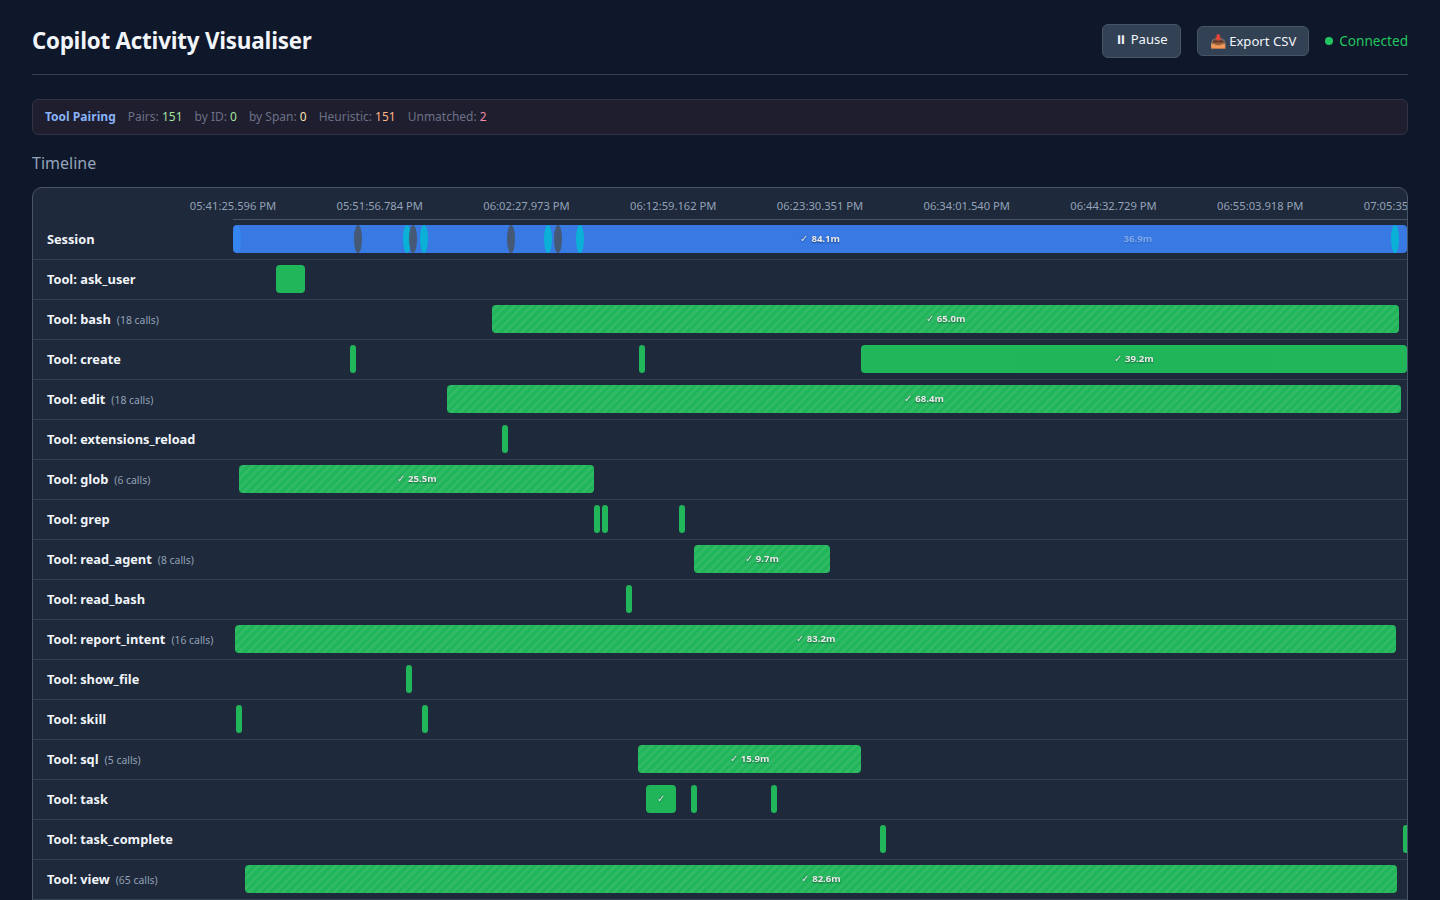
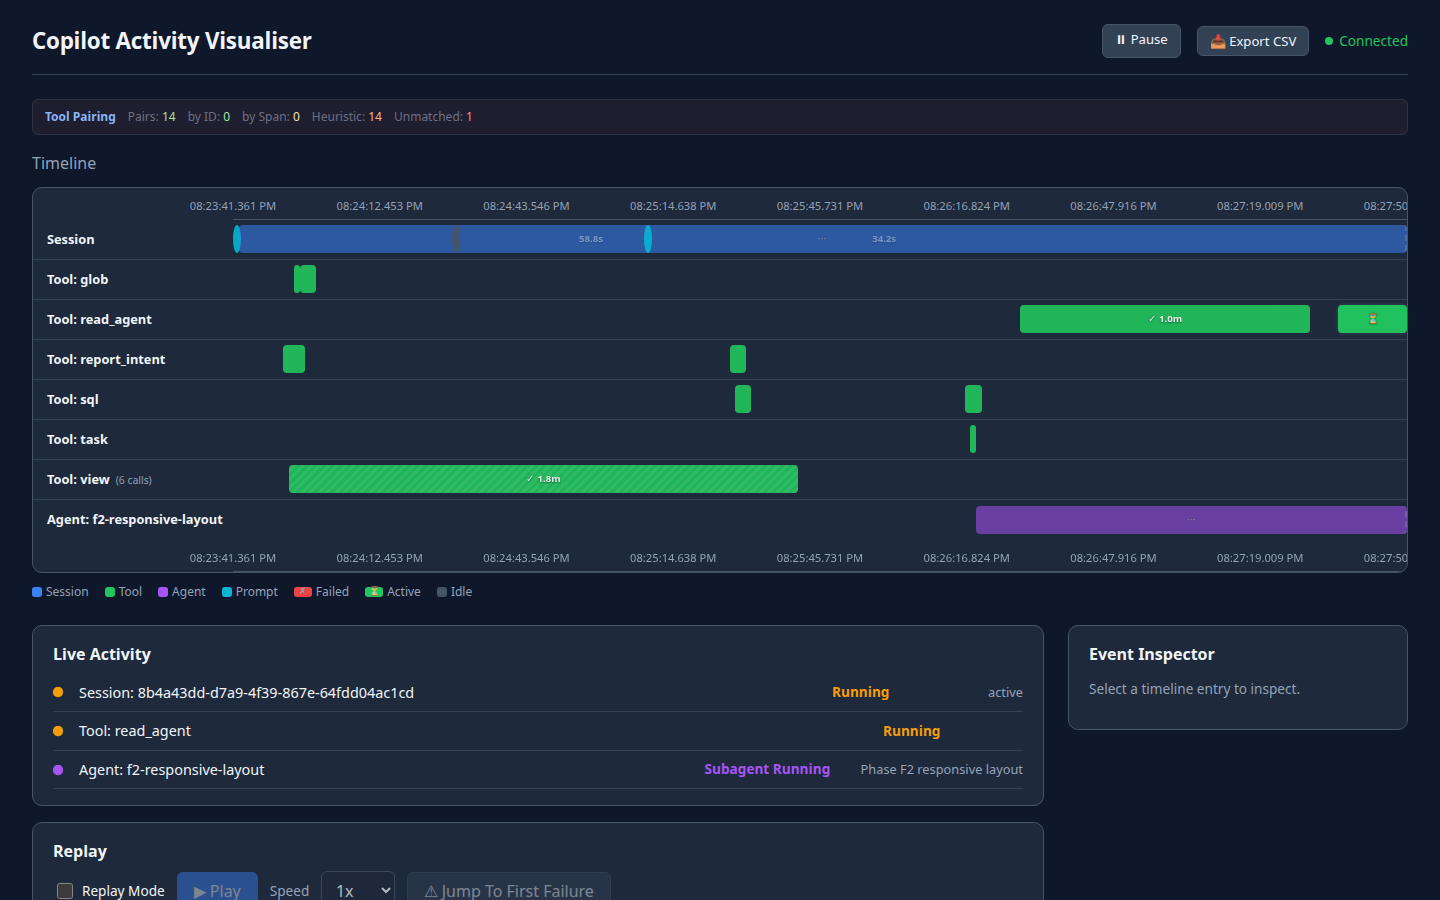
docs: update screenshots from live multi-agent session and add parallel tools showcase
- Recaptured 7 screenshots with live 32-event multi-agent session data
- Added 'Parallel Tool Execution' section to ui-feature-showcase.md
  with ui-gantt-parallel-tools.png reference

diff --git a/docs/tutorials/ui-feature-showcase.md b/docs/tutorials/ui-feature-showcase.md
@@ -29,6 +29,15 @@ Clicking a Gantt bar highlights the selected period and narrows the event list
 to records that occurred inside that window. This is the fastest way to pivot
 from a visual spike to the exact underlying events.
 
+## Parallel Tool Execution
+
+![Parallel tool batches collapsed in the Gantt timeline](./assets/tutorial-screenshots/ui-features/ui-gantt-parallel-tools.png)
+
+When multiple tools fire concurrently (common in multi-agent sessions), the
+Gantt chart collapses overlapping segments into parallel batch summaries. The
+state machine tracks all active tools simultaneously via `activeTools` rather
+than a single `currentTool`.
+
 ## Live Activity
 
 ![Live activity board](./assets/tutorial-screenshots/ui-features/ui-live-activity-board.png)
